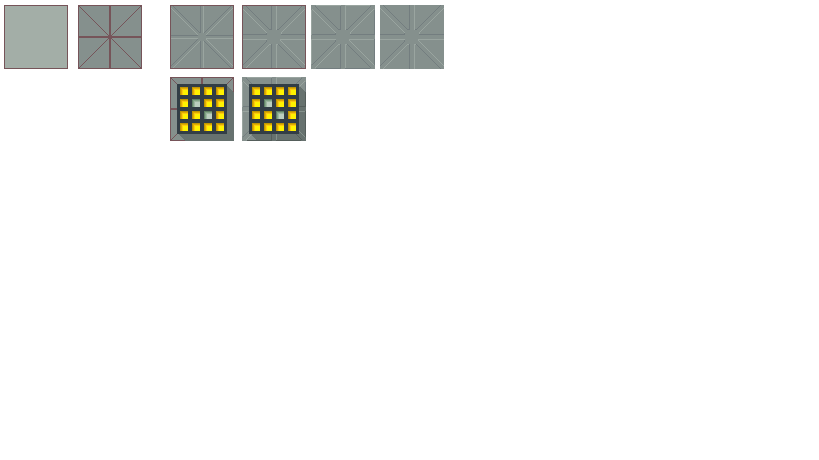
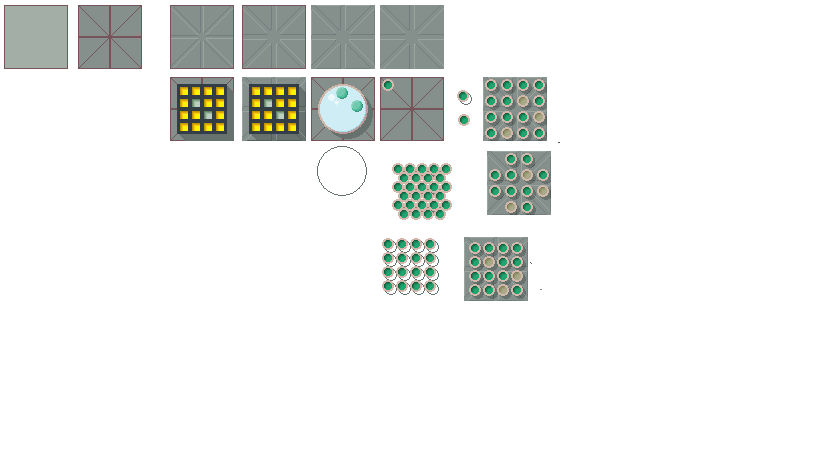
added 2 hydroponics attempts (needs more work), added gitignore

Changed region(s): [[0.3663, 0.1522, 0.6716, 0.487], [0.4579, 0.5174, 0.6716, 0.6696], [0.4579, 0.3348, 0.5495, 0.487]]

diff --git a/visuals/mockup.html b/visuals/mockup.html
@@ -4,7 +4,7 @@ Mockup:
 	position: absolute;
     top: 50px;
     left: 20px;
-	height: 320px;
+    height: 320px;
     width: 320px;
     background-color: powderblue;
 	background-image: url('background-1.png');
@@ -22,8 +22,28 @@ Mockup:
 	position: absolute;
     top: 64px;
     left: 64px;
-	height: 64px;
+    height: 64px;
     width: 64px;
     background-color: powderblue;
 	background-image: url('habitat-1.png');
+"/>
+
+<div style = "
+	position: absolute;
+    top: 64px;
+    left: 64px;
+    height: 64px;
+    width: 64px;
+    background-color: powderblue;
+	background-image: url('hydro-1.png');
+"/>
+
+<div style = "
+	position: absolute;
+    top: -64px;
+    left: 64px;
+    height: 64px;
+    width: 64px;
+    background-color: powderblue;
+	background-image: url('hydro-2.png');
 "/>
